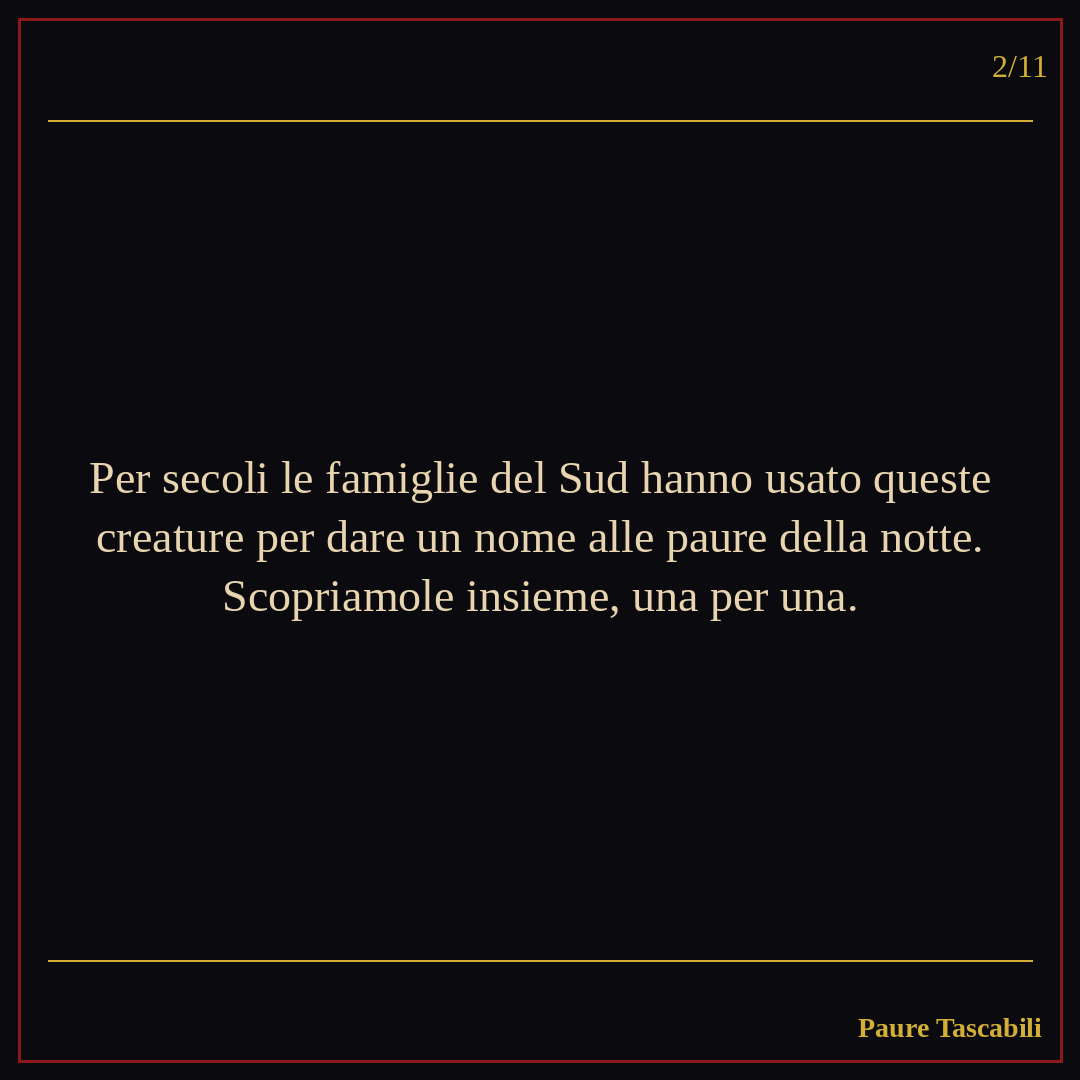
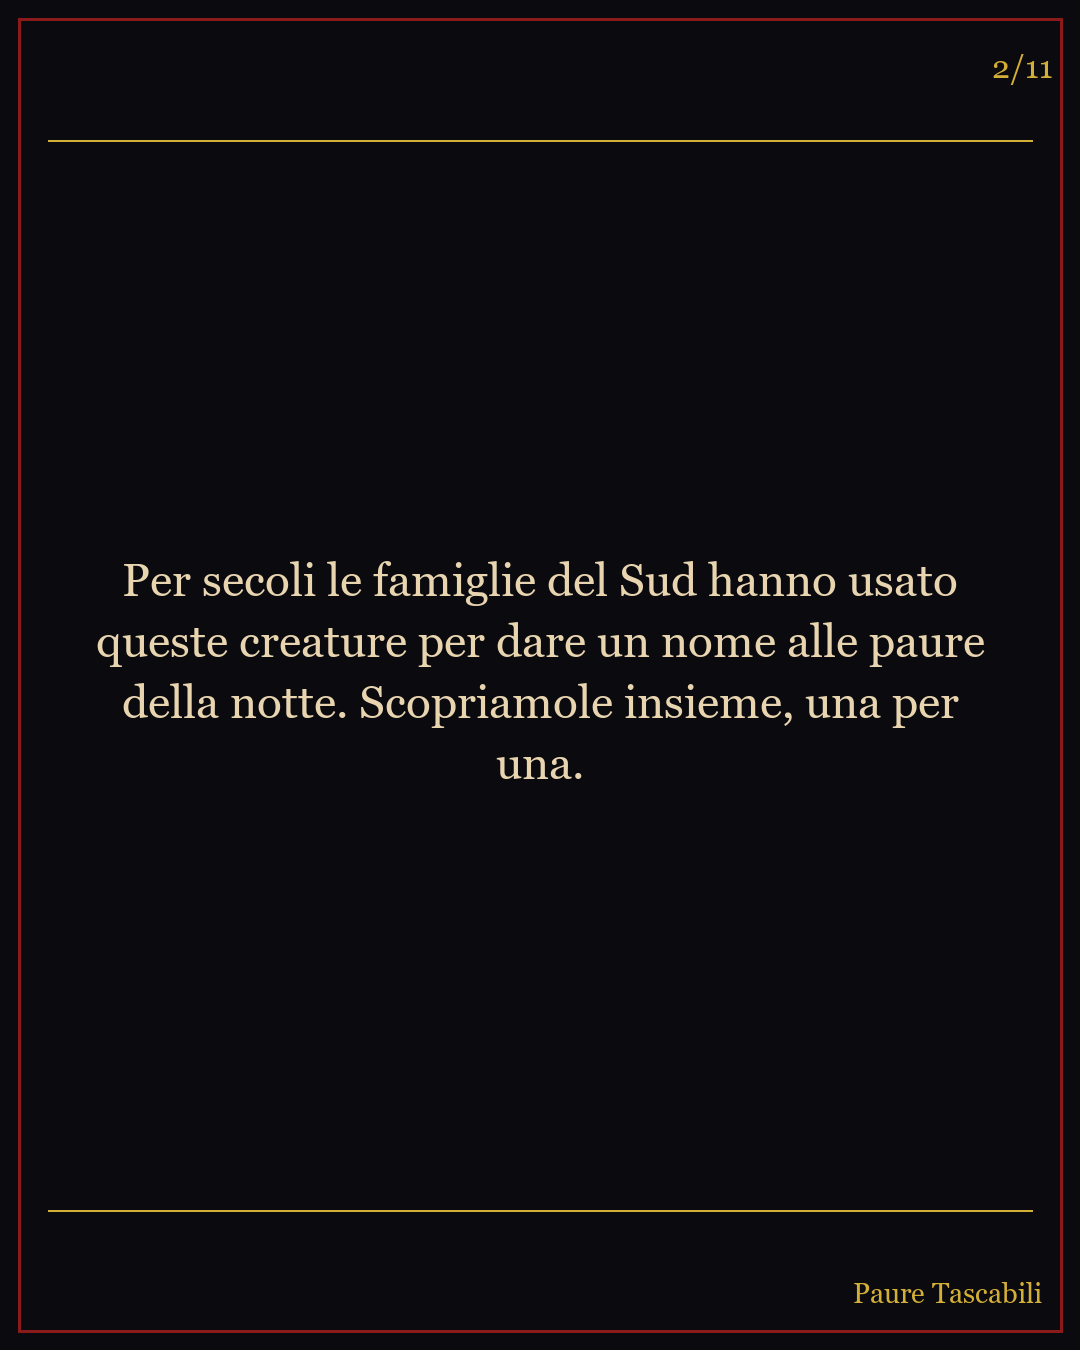
Carosello: formato 4:5 (1080x1350) e pallina rossa nelle didascalie
- Script: WIDTH=1080, HEIGHT=1350 per tutte le slide
- Script: coordinate y ricalibrate per formato portrait
- Carosello 5-mostri: caption aggiornata con 🔴 a ogni paragrafo
- Ripubblicato su Facebook e Instagram con le nuove immagini

diff --git a/scripts/publish_to_meta.py b/scripts/publish_to_meta.py
@@ -1,7 +1,7 @@
 #!/usr/bin/env python3
 """
 Paure Tascabili — Meta API Publisher
-Legge un JSON di carosello, genera immagini PNG 1080x1080, pubblica su Facebook.
+Legge un JSON di carosello, genera immagini PNG 1080x1350 (4:5), pubblica su Facebook e Instagram.
 Instagram viene attivato automaticamente quando il Page ha un Instagram Business Account collegato.
 
 Usage:
@@ -34,7 +34,8 @@ VOID_BLACK  = "#0A0A0F"
 BLOOD_RED   = "#8B1A1A"
 GOLD        = "#D4AF37"
 MOON_CREAM  = "#E8D5B0"
-SIZE        = 1080
+WIDTH       = 1080
+HEIGHT      = 1350  # formato 4:5 per Facebook e Instagram
 
 def hex_to_rgb(h):
     h = h.lstrip("#")
@@ -102,17 +103,17 @@ def draw_text_wrapped(draw, text, x, y, max_width, font, fill, align="center"):
     return total_h
 
 def make_slide(slide_data, slide_num, total):
-    """Genera un'immagine PIL per una singola slide."""
-    img = Image.new("RGB", (SIZE, SIZE), BG)
+    """Genera un'immagine PIL 1080x1350 (4:5) per una singola slide."""
+    img = Image.new("RGB", (WIDTH, HEIGHT), BG)
     draw = ImageDraw.Draw(img)
 
     # Cornice rossa sottile
     border = 18
-    draw.rectangle([border, border, SIZE-border, SIZE-border], outline=RED, width=3)
+    draw.rectangle([border, border, WIDTH-border, HEIGHT-border], outline=RED, width=3)
 
-    # Riga decorativa aurea
-    draw.line([(border+30, 120), (SIZE-border-30, 120)], fill=AU, width=2)
-    draw.line([(border+30, SIZE-120), (SIZE-border-30, SIZE-120)], fill=AU, width=2)
+    # Righe decorative auree (proporzionate all'altezza maggiore)
+    draw.line([(border+30, 140), (WIDTH-border-30, 140)], fill=AU, width=2)
+    draw.line([(border+30, HEIGHT-140), (WIDTH-border-30, HEIGHT-140)], fill=AU, width=2)
 
     font_title  = get_font("cinzel_bold", 62)
     font_sub    = get_font("cinzel_bold", 38)
@@ -121,30 +122,31 @@ def make_slide(slide_data, slide_num, total):
     font_num    = get_font("crimson",     32)
 
     slide_type = slide_data.get("type", "content")
-    cx = SIZE // 2
+    cx = WIDTH // 2
+    cy = HEIGHT // 2
 
     if slide_type == "cover":
         title    = slide_data.get("title", "")
         subtitle = slide_data.get("subtitle", "")
-        draw_text_wrapped(draw, title,    cx, SIZE//2 - 60, SIZE-160, font_title, CR)
-        draw_text_wrapped(draw, subtitle, cx, SIZE//2 + 80, SIZE-200, font_sub,   AU)
+        draw_text_wrapped(draw, title,    cx, cy - 70,  WIDTH-160, font_title, CR)
+        draw_text_wrapped(draw, subtitle, cx, cy + 100, WIDTH-200, font_sub,   AU)
     elif slide_type == "cta":
         text = slide_data.get("text", "")
-        draw_text_wrapped(draw, text, cx, SIZE//2, SIZE-160, font_sub, AU)
+        draw_text_wrapped(draw, text, cx, cy, WIDTH-160, font_sub, AU)
     else:
         text = slide_data.get("text", "")
-        draw_text_wrapped(draw, text, cx, SIZE//2, SIZE-160, font_body, CR)
+        draw_text_wrapped(draw, text, cx, cy, WIDTH-160, font_body, CR)
 
     # Numero slide (es: 2/10)
     if slide_type not in ("cover",):
         num_text = f"{slide_num}/{total}"
-        draw.text((SIZE-border-70, border+30), num_text, font=font_num, fill=AU)
+        draw.text((WIDTH-border-70, border+30), num_text, font=font_num, fill=AU)
 
-    # Logo
+    # Logo (angolo in basso a destra)
     logo = "Paure Tascabili"
     bbox = draw.textbbox((0, 0), logo, font=font_logo)
     lw = bbox[2] - bbox[0]
-    draw.text((SIZE - lw - border - 20, SIZE - border - 50), logo, font=font_logo, fill=AU)
+    draw.text((WIDTH - lw - border - 20, HEIGHT - border - 55), logo, font=font_logo, fill=AU)
 
     return img
 
